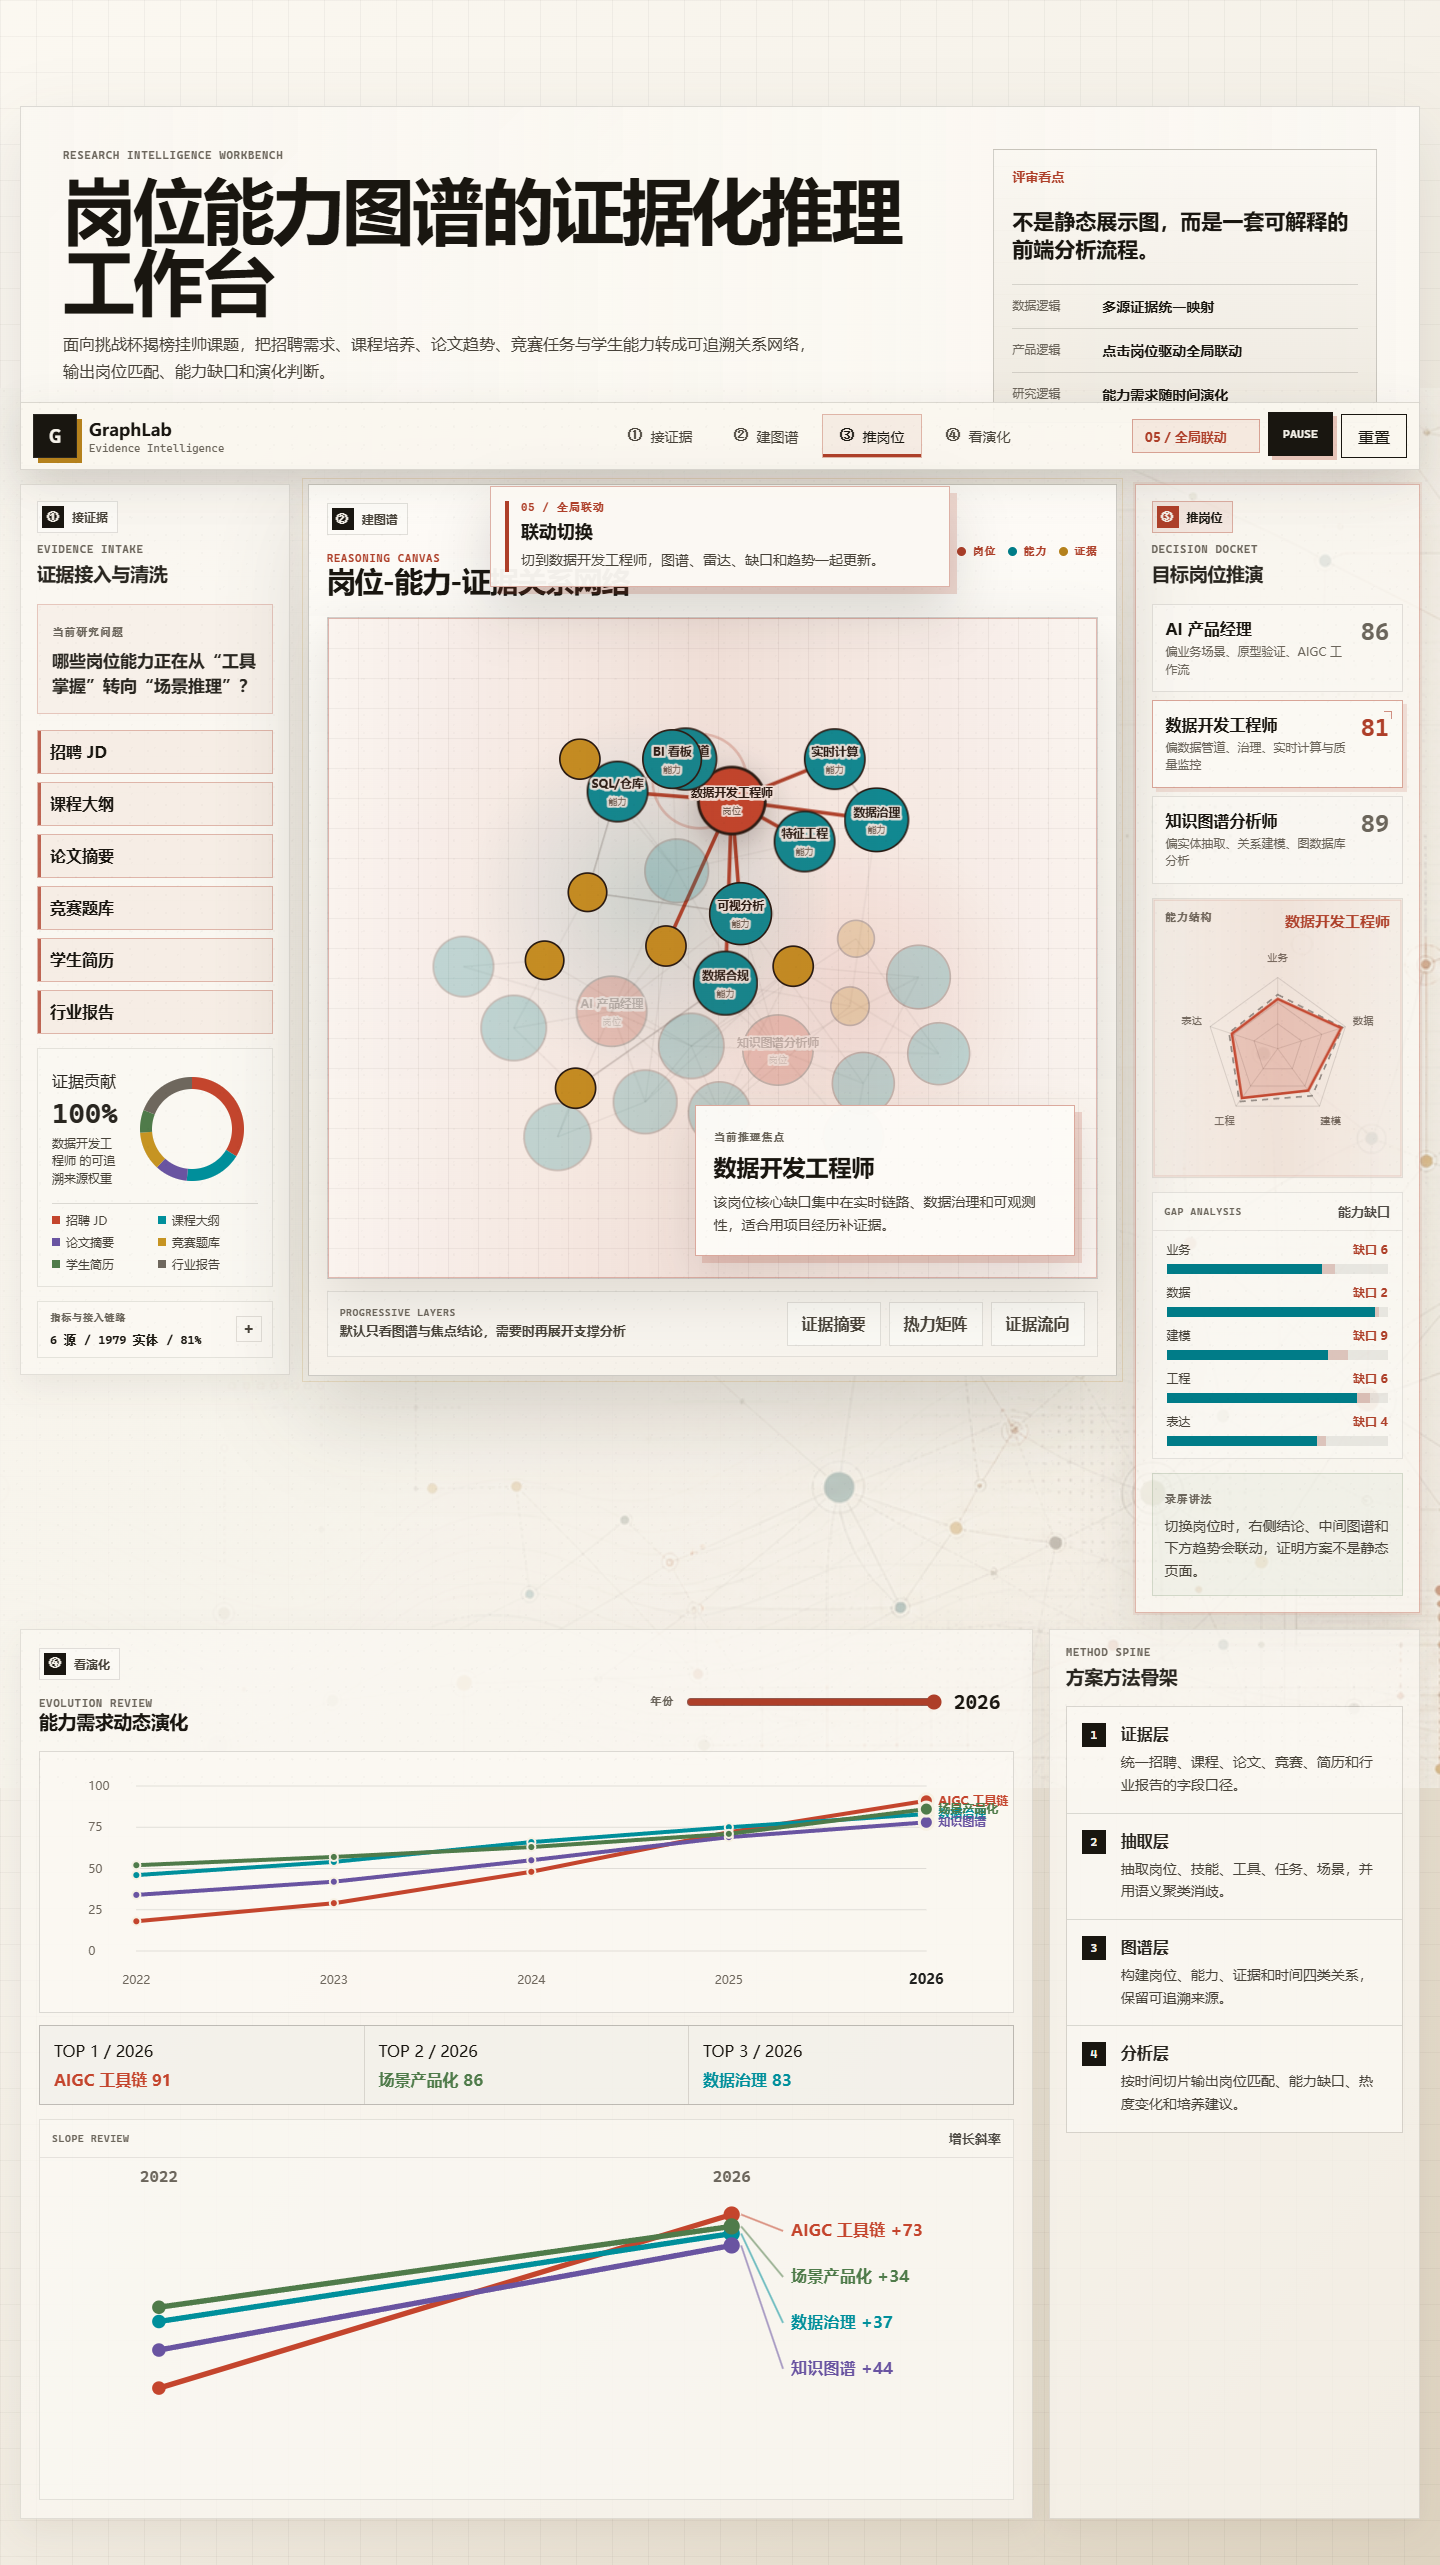
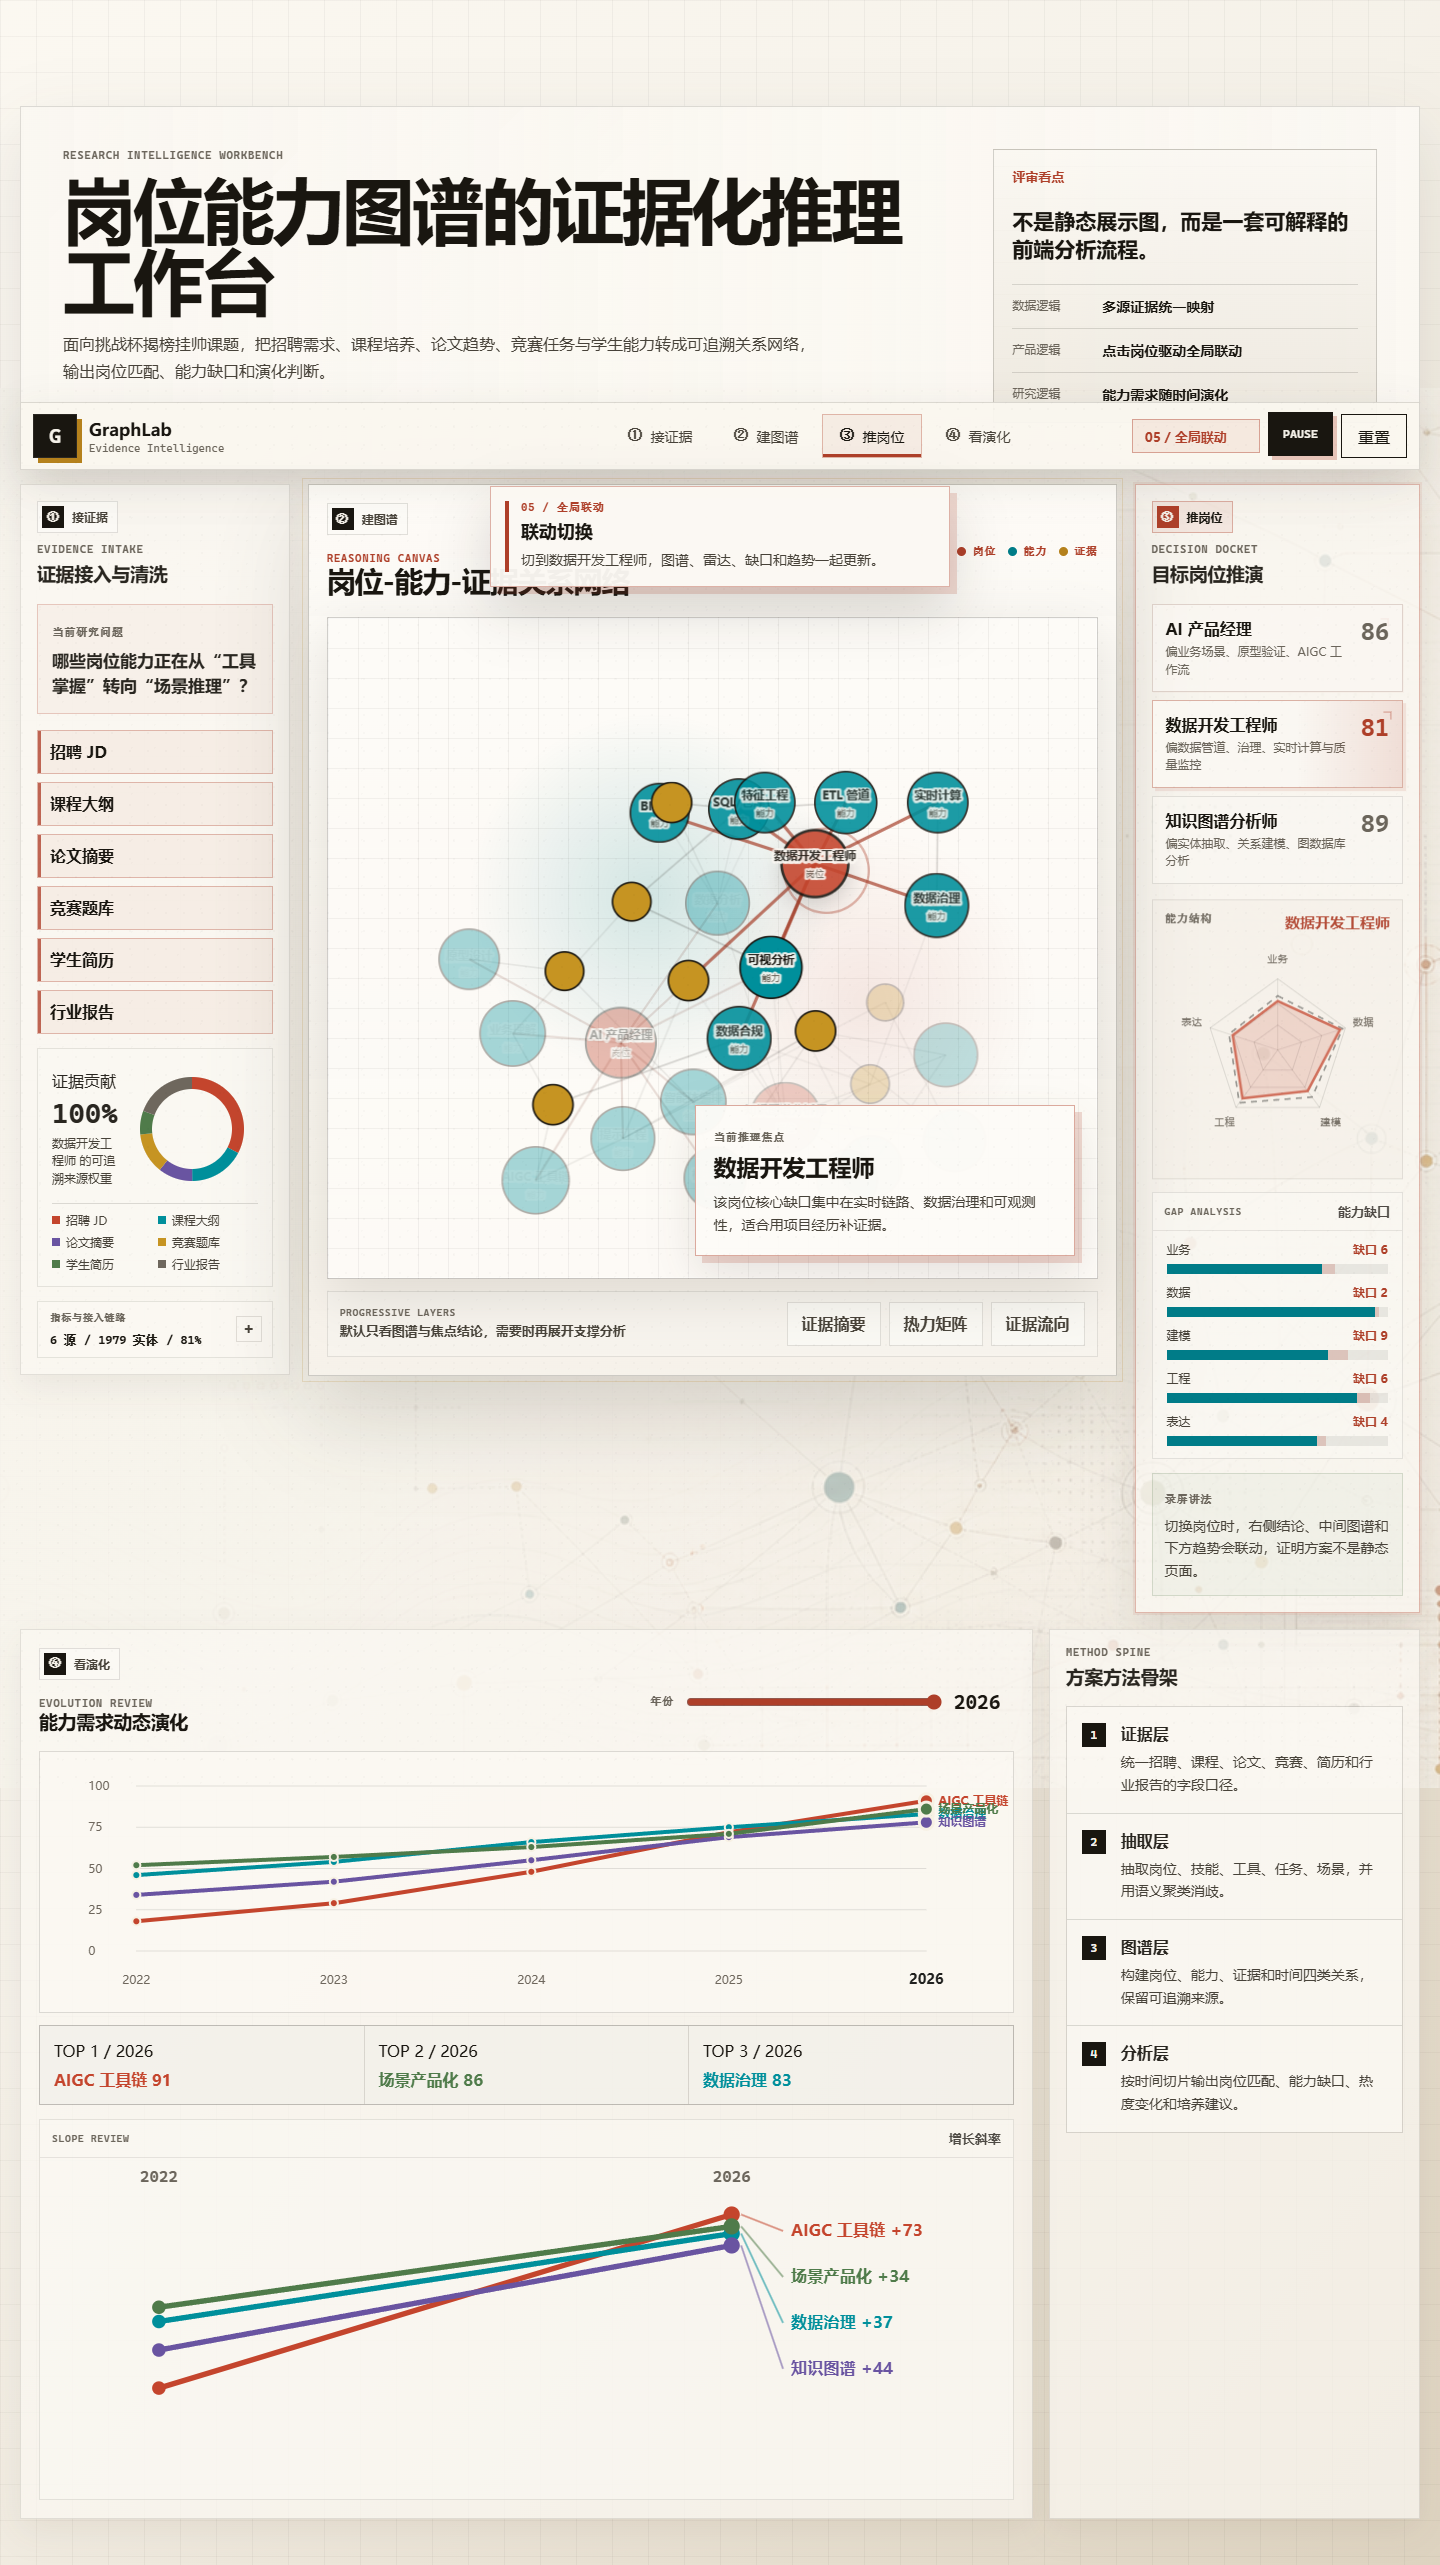
Polish graph focus and evidence flow

diff --git a/src/components/KnowledgeGraph.tsx b/src/components/KnowledgeGraph.tsx
@@ -40,12 +40,12 @@ function buildForceLayout() {
   const links = graphEdges.map(([source, target]) => ({ source, target }));
 
   forceSimulation(nodes)
-    .force("link", forceLink<LayoutNode, { source: string; target: string }>(links).id((node) => node.id).distance(92).strength(0.48))
-    .force("charge", forceManyBody().strength(-380))
-    .force("collide", forceCollide<LayoutNode>().radius((node) => node.r + 18).strength(0.92))
+    .force("link", forceLink<LayoutNode, { source: string; target: string }>(links).id((node) => node.id).distance(102).strength(0.48))
+    .force("charge", forceManyBody().strength(-430))
+    .force("collide", forceCollide<LayoutNode>().radius((node) => node.r + 22).strength(0.96))
     .force("center", forceCenter(460, 280))
     .stop()
-    .tick(220);
+    .tick(260);
 
   return nodes.map((node) => ({
     ...node,
@@ -67,6 +67,10 @@ function getSvgPoint(svg: SVGSVGElement, clientX: number, clientY: number) {
   const matrix = svg.getScreenCTM();
   if (!matrix) return point;
   return point.matrixTransform(matrix.inverse());
+}
+
+function clamp(value: number, min: number, max: number) {
+  return Math.max(min, Math.min(max, value));
 }
 
 function getOneHopNodeIds(nodeId: string, activeSources: Set<SourceId>) {
@@ -104,6 +108,22 @@ export function KnowledgeGraph({
       return [node.id, { ...node, x: override?.x ?? node.x, y: override?.y ?? node.y }] as const;
     }));
   }, [layoutNodes, positionOverrides]);
+  const focusOffset = useMemo(() => {
+    const focusedNodes = Array.from(focusedIds)
+      .map((id) => positionById.get(id))
+      .filter((node): node is LayoutNode => Boolean(node));
+    if (focusedNodes.length === 0) return { x: 0, y: 0 };
+    const center = focusedNodes.reduce(
+      (sum, node) => ({ x: sum.x + node.x, y: sum.y + node.y }),
+      { x: 0, y: 0 },
+    );
+    center.x /= focusedNodes.length;
+    center.y /= focusedNodes.length;
+    return {
+      x: clamp(460 - center.x, -130, 130),
+      y: clamp(282 - center.y, -86, 86),
+    };
+  }, [focusedIds, positionById]);
   const neighborIds = useMemo(() => {
     if (!hoveredId) return new Set<string>();
     const related = new Set<string>([hoveredId]);
@@ -120,8 +140,8 @@ export function KnowledgeGraph({
     setPositionOverrides((current) => ({
       ...current,
       [draggingId]: {
-        x: Math.max(44, Math.min(876, point.x)),
-        y: Math.max(44, Math.min(516, point.y)),
+        x: clamp(point.x - focusOffset.x, 44, 876),
+        y: clamp(point.y - focusOffset.y, 44, 516),
       },
     }));
   }
@@ -158,6 +178,7 @@ export function KnowledgeGraph({
             setHoveredId(null);
           }}
         >
+          <g className="graph-viewport" transform={`translate(${focusOffset.x} ${focusOffset.y})`}>
           <g>
             {graphEdges.map(([fromId, toId]) => {
               const from = positionById.get(fromId);
@@ -222,6 +243,7 @@ export function KnowledgeGraph({
                 </g>
               );
             })}
+          </g>
           </g>
         </svg>
         <div className="graph-insight">

diff --git a/src/components/EvidenceFlowChart.tsx b/src/components/EvidenceFlowChart.tsx
@@ -9,6 +9,15 @@ interface EvidenceFlowChartProps {
 
 const capabilities = ["场景任务", "数据能力", "知识建模", "项目验证"];
 
+const sourceColors: Record<SourceId, string> = {
+  job: "#c4452d",
+  course: "#008f9b",
+  paper: "#6954a1",
+  contest: "#c69422",
+  resume: "#4f7b4a",
+  report: "#6e675d",
+};
+
 export function EvidenceFlowChart({ activeRoleId, activeSources }: EvidenceFlowChartProps) {
   const [hoveredFlowKey, setHoveredFlowKey] = useState<string | null>(null);
   const visibleFlows = evidenceFlows.filter((flow) => activeSources.has(flow.sourceId));
@@ -34,25 +43,37 @@ export function EvidenceFlowChart({ activeRoleId, activeSources }: EvidenceFlowC
             const y1 = 24 + sourceIndex * 34;
             const y2 = 42 + capabilityIndex * 48;
             const y3 = 50 + roleIndex * 58;
-            const width = Math.max(2, flow.value / 7);
+            const width = Math.max(3, flow.value / 6);
             const active = flow.roleId === activeRoleId;
             const isHovered = hoveredFlowKey === flowKey;
             const isMuted = hoveredFlowKey ? !isHovered : !active;
+            const path = `M 10 ${y1} C 150 ${y1}, 150 ${y2}, 280 ${y2} S 430 ${y3}, 550 ${y3}`;
+            const stroke = sourceColors[flow.sourceId];
             return (
               <g
                 key={flowKey}
                 className={`flow-path ${active ? "is-active" : ""} ${isHovered ? "is-hovered" : ""}`}
                 data-flow-active={active ? "true" : "false"}
+                data-source-id={flow.sourceId}
                 onPointerEnter={() => setHoveredFlowKey(flowKey)}
                 onPointerLeave={() => setHoveredFlowKey(null)}
               >
                 <path
-                  d={`M 10 ${y1} C 150 ${y1}, 150 ${y2}, 280 ${y2} S 430 ${y3}, 550 ${y3}`}
+                  className="flow-hitbox"
+                  d={path}
                   fill="none"
-                  stroke={isHovered || active ? "#c4452d" : "#8d877d"}
-                  strokeWidth={isHovered ? width + 2.6 : width}
+                  stroke="transparent"
+                  strokeWidth={width + 12}
                   strokeLinecap="round"
-                  opacity={isHovered ? 0.92 : isMuted ? 0.14 : 0.74}
+                />
+                <path
+                  className="flow-stroke"
+                  d={path}
+                  fill="none"
+                  stroke={isMuted ? "#8d877d" : stroke}
+                  strokeWidth={isHovered ? width + 3 : active ? width + 1 : width}
+                  strokeLinecap="round"
+                  opacity={isHovered ? 0.96 : isMuted ? 0.13 : 0.82}
                 />
               </g>
             );

diff --git a/tests/e2e/workbench.spec.ts b/tests/e2e/workbench.spec.ts
@@ -35,6 +35,9 @@ test("renders the workbench and keeps graph, role, source, and year views linked
   await expect(page.locator(".heatmap-panel")).toHaveCount(0);
   await page.getByRole("tab", { name: "热力矩阵" }).click();
   await expect(page.locator('.heatmap-row[data-role-id="data-engineer"] .heatmap-cell').first()).toHaveClass(/is-active/);
+  await page.getByRole("tab", { name: "证据流向" }).click();
+  await expect(page.locator('.flow-path[data-flow-active="true"] .flow-stroke').first()).toBeVisible();
+  await expect(page.locator('.flow-path[data-source-id="job"] .flow-stroke').first()).toBeVisible();
   await expect(page.locator('[data-node-id="ai-pm"]')).toHaveClass(/is-dim/);
   await expect(page.locator('[data-node-id="etl"]')).not.toHaveClass(/is-dim/);
 

diff --git a/src/styles/workbench.css b/src/styles/workbench.css
@@ -832,6 +832,10 @@ h1 {
   height: 660px;
 }
 
+.graph-viewport {
+  transition: transform 280ms var(--ease);
+}
+
 .graph-insight {
   position: absolute;
   right: 22px;
@@ -1102,8 +1106,17 @@ h1 {
   cursor: pointer;
 }
 
-.flow-path path {
-  transition: opacity 180ms var(--ease), stroke 180ms var(--ease), stroke-width 180ms var(--ease);
+.flow-stroke {
+  filter: drop-shadow(0 2px 0 oklch(20% 0.01 82 / 0.08));
+  transition: opacity 180ms var(--ease), stroke 180ms var(--ease), stroke-width 180ms var(--ease), filter 180ms var(--ease);
+}
+
+.flow-hitbox {
+  pointer-events: stroke;
+}
+
+.flow-path.is-hovered .flow-stroke {
+  filter: drop-shadow(0 4px 0 oklch(20% 0.01 82 / 0.12));
 }
 
 .flow-label {
